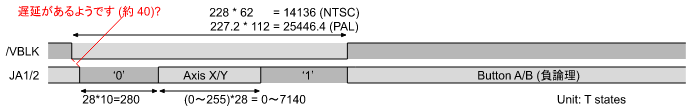
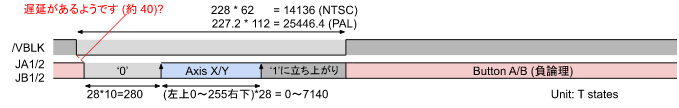
JoystickMZ1X03Test JA1/JA2 生データ表示機能追加

diff --git a/JoystickMZ1X03Test/main.c b/JoystickMZ1X03Test/main.c
@@ -5,7 +5,7 @@
  */
 #include "../src-common/common.h"
 #include "../src-common/hard.h"
-
+#include "../src-common/display_code.h"
 
 #define INPUT_MASK_A 0x01   // A ボタン
 #define INPUT_MASK_B 0x02   // B ボタン
@@ -16,12 +16,65 @@
 #define INPUT_MASK_NC   0x80  // 未検出フラグ
 #define INPUT_SHIFT_NC  0x7   // 未検出フラグ
 
+#define VRAM_TEXT_JA1    (VRAM_TEXT + 40 * 1)
+#define VRAM_TEXT_JA2    (VRAM_TEXT + 40 * 10)
+#define VRAM_TEXT_DETECT (VRAM_TEXT + 40 * 20)
+#define VRAM_ATB_JA1     (VRAM_ATB + 40 * 1)
+#define VRAM_ATB_JA2     (VRAM_ATB + 40 * 10)
 
-/** シャープ純正ジョイスティックを入力します. デバッグ用
+#define INPUT_AXIS_NR_SAMPLES (80*7)  // サンプリング数. 4 の倍数でないと暴走する
+static u8 axis_data[INPUT_AXIS_NR_SAMPLES];
+
+/** シャープ純正ジョイスティックの軸をサンプリングします
+ * - VBLANK を待ち, 更に 512x28 T states かかります
+ */
+static void inputMZ1X03Axis_() __z88dk_fastcall __naked
+{
+__asm
+    ld      DE, #_axis_data
+    ld      BC, #INPUT_AXIS_NR_SAMPLES
+    // -------- /VBLK の立下がりを待つ
+    xor     A
+    ld      HL, #MMIO_8255_PORTC
+INPUT_MZ1X03_VBLK_SYNC10:
+    or      A, (HL)                 // /VBLK = H になるまで待つ
+    jp      p,  INPUT_MZ1X03_VBLK_SYNC10
+INPUT_MZ1X03_VBLK_SYNC11:
+    and     A, (HL)                 // /VBLK = L になるまで待つ
+    jp      m,  INPUT_MZ1X03_VBLK_SYNC11
+
+    // -------- 軸サンプリング
+    ld      L,  #((MMIO_ETC + 1) & 0xff)  // 7
+
+INPUT_MZ1X03_SAMPLE_LOOP:
+    dec     L                       // 4
+    ldi                             // 16
+    nop                             // 4
+    nop                             // 4        小計28
+
+    dec     L                       // 4
+    ldi                             // 16
+    nop                             // 4
+    nop                             // 4        小計28
+
+    dec     HL                      // 6
+    ldi                             // 16
+    nop                             // 4        小計26
+
+    dec     L                       // 4
+    ldi                             // 16       BC!=0 ならば P/V=1(PE)
+    jp      pe, INPUT_MZ1X03_SAMPLE_LOOP// 10/10    小計30
+
+    ret
+__endasm;
+}
+
+
+/** シャープ純正ジョイスティックの簡易入力版です
  * - VBLANK を待ち, 更に 63 ライン分 (約4msec) かかります
  * @return 00UD_RLBA. 未検出なら INPUT_MASK_NC が立ちます
  */
-static u8 inputMZ1X03() __z88dk_fastcall __naked
+static u8 inputMZ1X03Simple_() __z88dk_fastcall __naked
 {
 __asm
     // -------- /VBLK の立下がりを待つ
@@ -116,32 +169,130 @@ __endasm;
 }
 
 
-void main() __naked
+/** 手抜き print */
+static void print_(volatile u8* addr, const u8* str)
 {
-    // 1 行だけ消去
-    {
-        volatile u8* vram = (volatile u8*)(VRAM_TEXT);
-        for (int i = 40; i != 0; i--) {
-            *vram++ = 0x00;
-        }
+    for (u8 s; (s = *str) != 0; str++)  {
+        *addr++ = s;
+    }
+}
+
+
+/** 手抜き 16進数表示 */
+static void printHex_(volatile u8* addr, const u8 val)
+{
+    u8 v = val >> 4;
+    *addr++ = (10 <= v) ? (v - 10 + DC_A) : (v + DC_0);
+    v = val & 0x0f;
+    *addr   = (10 <= v) ? (v - 10 + DC_A) : (v + DC_0);
+}
+
+
+/** 画面クリア */
+static void clearScreen_()
+{
+    volatile u8* vt = (volatile u8*)VRAM_TEXT;
+    volatile u8* va = (volatile u8*)VRAM_ATB;
+    volatile u8* va1 = (volatile u8*)VRAM_ATB_JA1;
+    volatile u8* va2 = (volatile u8*)VRAM_ATB_JA2;
+    for (int i = 0; i < 1000; ++i) {
+        vt[i] = 0x00;
+        va[i] = 0x70;
+    }
+    // 最初の 10 x 28 T states の色
+    for (int i = 0; i < 10/2; ++i) {
+        va1[i] = 0x40;
+        va2[i] = 0x40;
+    }
+    // (10 + 256) x 28 T states より後ろの色
+    for (int i = 266/2; i < INPUT_AXIS_NR_SAMPLES/2; ++i) {
+        va1[i] = 0x40;
+        va2[i] = 0x40;
+    }
+    // /VBLK 外(NTSC) (228 は 1ラインの T states) の色
+    for (int i = 62 * 228 / 28 / 2; i < INPUT_AXIS_NR_SAMPLES / 2; ++i) {
+        va1[i] = 0x30;
+        va2[i] = 0x30;
+    }
+    // 10 x 28 T states 単位で読みやすいように背景色を決める
+    for (int i = 0; i < INPUT_AXIS_NR_SAMPLES / 2; ++i) {
+        int b = (i / 5) & 1;
+        va1[i] |= b;
+        va2[i] |= b;
     }
 
-    // メインループ
-    while (1) {
-        volatile u8* vram = (volatile u8*)(VRAM_TEXT);
-        u8           joy  = inputMZ1X03();
+    static const u8 str_ja1[] = { DC_J, DC_A, DC_1, DC_COLON, 0 };
+    static const u8 str_ja2[] = { DC_J, DC_A, DC_2, DC_COLON, 0 };
+    static const u8 str_detect[] = { DC_D, DC_E, DC_T, DC_E, DC_C, DC_T, DC_COLON, 0 };
+    print_((volatile u8*)(VRAM_TEXT_JA1    - 40), str_ja1);
+    print_((volatile u8*)(VRAM_TEXT_JA2    - 40), str_ja2);
+    print_((volatile u8*)(VRAM_TEXT_DETECT - 40), str_detect);
+}
 
-        if (joy == INPUT_MASK_NC) {
-            for (u8 i = 6; i != 0; i--) {
-                *vram++ = 0x6d; // 'X'
-            }
-        } else {
-            vram[0] = (joy & INPUT_MASK_U) ? 0x15 : 0x2a; //'-'
-            vram[1] = (joy & INPUT_MASK_D) ? 0x04 : 0x2a;
-            vram[2] = (joy & INPUT_MASK_R) ? 0x12 : 0x2a;
-            vram[3] = (joy & INPUT_MASK_L) ? 0x0c : 0x2a;
-            vram[4] = (joy & INPUT_MASK_B) ? 0x02 : 0x2a;
-            vram[5] = (joy & INPUT_MASK_A) ? 0x01 : 0x2a;
+
+/** 軸サンプリングデータ表示 */
+static void dispAxis_()
+{
+    inputMZ1X03Axis_();
+    volatile u8* v1 = (volatile u8*)VRAM_TEXT_JA1;
+    volatile u8* v2 = (volatile u8*)VRAM_TEXT_JA2;
+    u8* a = axis_data;
+    for (int i = 0; i < INPUT_AXIS_NR_SAMPLES; i += 2) {
+        u8 d1 = *a++;
+        u8 d2 = *a++;
+        u8 x = ((d1 & MMIO_ETC_JA1_MASK) ? 0xf1 : 0xf0) | ((d2 & MMIO_ETC_JA1_MASK) ? 0x02 : 0x00);
+        u8 y = ((d1 & MMIO_ETC_JA2_MASK) ? 0xf1 : 0xf0) | ((d2 & MMIO_ETC_JA2_MASK) ? 0x02 : 0x00);
+        *v1++ = x;
+        *v2++ = y;
+    }
+
+    int v = 0;
+    a = axis_data + 10;
+    for (int i = 0; i < 255; i++) {
+        if (*a++ & MMIO_ETC_JA1_MASK) {
+            break;
         }
+        v++;
+    }
+    printHex_((volatile u8*)(VRAM_TEXT_JA1 - 40 + 4), v);
+
+    v = 0;
+    a = axis_data + 10;
+    for (int i = 0; i < 255; i++) {
+        if (*a++ & MMIO_ETC_JA2_MASK) {
+            break;
+        }
+        v++;
+    }
+    printHex_((volatile u8*)(VRAM_TEXT_JA2 - 40 + 4), v);
+}
+
+/** ボタン&簡易表示 */
+static void dispInput_()
+{
+    u8           joy = inputMZ1X03Simple_();
+    volatile u8* v   = (volatile u8*)VRAM_TEXT_DETECT;
+    if (joy == INPUT_MASK_NC) {
+        for (int i = 6; i != 0; --i) {
+            *v++ = 0x6d; // 'X'
+        }
+    } else {
+        *v++ = (joy & INPUT_MASK_U) ? DC_CURSOR_UP    : DC_MINUS;
+        *v++ = (joy & INPUT_MASK_D) ? DC_CURSOR_DOWN  : DC_MINUS;
+        *v++ = (joy & INPUT_MASK_R) ? DC_CURSOR_RIGHT : DC_MINUS;
+        *v++ = (joy & INPUT_MASK_L) ? DC_CURSOR_LEFT  : DC_MINUS;
+        *v++ = (joy & INPUT_MASK_B) ? DC_B            : DC_MINUS;
+        *v   = (joy & INPUT_MASK_A) ? DC_A            : DC_MINUS;
+    }
+}
+
+
+void main() __naked
+{
+    clearScreen_();
+    // -------- メインループ
+    while (1) {
+        dispAxis_();
+        dispInput_();
     }
 }

diff --git a/src-common/common.h b/src-common/common.h
@@ -28,6 +28,7 @@ typedef unsigned char  bool;
 /** 構造体 s のメンバ m のオフセット位置をバイトで返します. z88dkでは, 何故か定数式ではありません... */
 #define OFFSET_OF(s, m) ((int)&(((s*)0)->m))
 
+// ---------------------------------------------------------------- static assert
 /** cond が 0(false) ならば, コンパイルを停止します
  * - 配列の大きさが負といって停止します
  * @example
@@ -38,19 +39,6 @@ typedef unsigned char  bool;
 #else
 #define STATIC_ASSERT(cond, msg)
 #endif
-
-/** 実行時に cond が 0(false) ならば, ソースと行数を表示して, 実行を停止します
- * - release ビルド
- * - assert() を実装する必要があります
- */
-#ifdef DEBUG
-#define ASSERT(cond) assert(cond, __FILE__, __LINE__)
-#else
-#define ASSERT(cond)
-#endif
-
-/* assert 本体. 別途用意してください */
-void assert(const bool cond, const char* const file, const u16 line) __naked;
 
 // ---------------------------------------------------------------- 引数を減らすための合同マクロ
 // z88dk は, 引数を 1 個にして __fastcall を付けた関数の引数は, HL レジスタ経由で渡されるのです

diff --git a/JoystickMZ1X03Test/README.md b/JoystickMZ1X03Test/README.md
@@ -1,14 +1,21 @@
 # Joystick MZ-1X03 test
-画面の左上に「上下左右BA」の表示をします.
-検出出来なかった場合は, 'X' を表示します.<br>
-The upper left corner of the screen displays 'up, down, left, right, BA'.
-If the detection fails, 'X' will be displayed.
 
-## 非接続の判定方法 / How to determine disconnection
+## つかいかた / How to use
+
+![usage](JoystickMZ1X03Test.png)
+
+- (1)... /VBLK 以降の JA1/JA2 の生データを 560 個表示します. 1 dot = 28 T states です.
+        白い部分が判定に有効な範囲, マゼンタの部分は /VBLK 外になります(NTSC のみ)<br>
+        Displays 560 JA1/JA2 raw data after /VBLK. 1 dot = 28 T states.
+        White area is valid range for judgment, magenta area is outside of /VBLK (NTSC only).
+- (2)... シンプルなジョイスティック判定です. 方向とボタンを表示します. ジョイスティックが検出できなかった場合は 'XXXXXX' と表示します.<br>
+        This is a simple joystick detection. Display the direction and button. If the joystick is not detected, display 'XXXXXX'.
+
+## 信号の詳細 / Signal Details
 
 ![pic](MZ-1X03_TimingChart.png)
 
-MZ-1X03 の軸は, /VBLK の立下がり後, 少しの遅延の後に '0' になり, ((10 + n) * 28) T states 後に '1' (n=0～255) になるようです.<br>
-本プログラムは, /VBLK の立下がり後, 約 150 T states 後に '1' を検出したら非接続と判定します.<br>
-The axis of MZ-1X03 seems to be '0' after a short delay after the falling edge of /VBLK, and '1' after ((10 + n) * 28) T states (n=0-255).<br>
-This program judges the connection to be disconnected when it detects '1' about 150 T states after the falling edge of /VBLK.<br>
+- MZ-1X03 の軸は, /VBLK の立下がり後, 少しの遅延の後に '0' になり, ((10 + n) * 28) T states 後に '1' (n=0～255) になるようです.<br>
+  The axis of MZ-1X03 seems to be '0' after a short delay after the falling edge of /VBLK, and '1' after ((10 + n) * 28) T states (n=0-255).
+- 本プログラムは, /VBLK の立下がり後, 約 150 T states 後に '1' を検出したら非接続と判定します.<br>
+  This program judges the connection to be disconnected when it detects '1' about 150 T states after the falling edge of /VBLK.<br>
